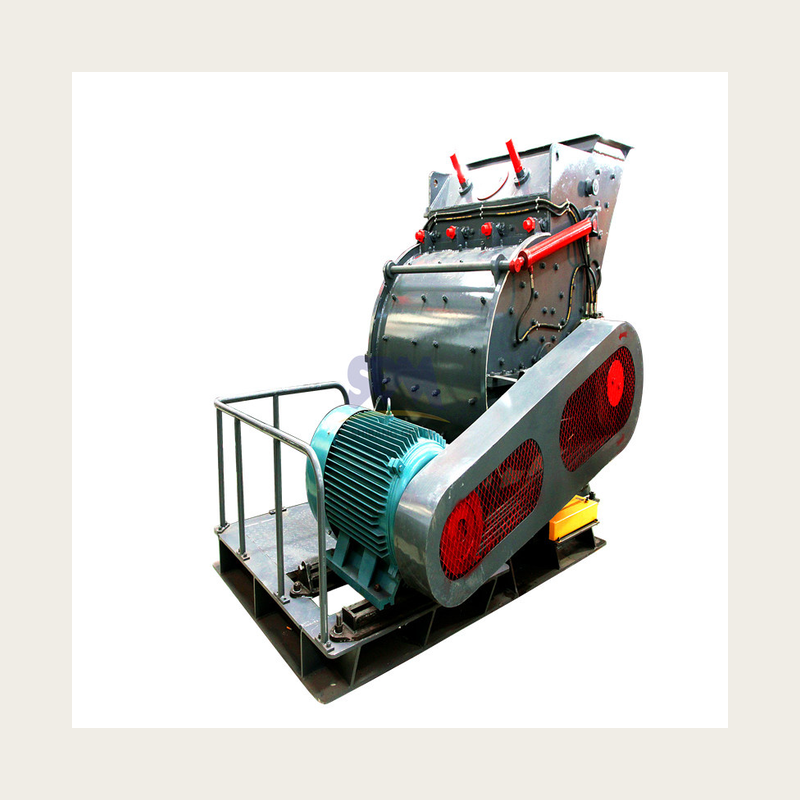
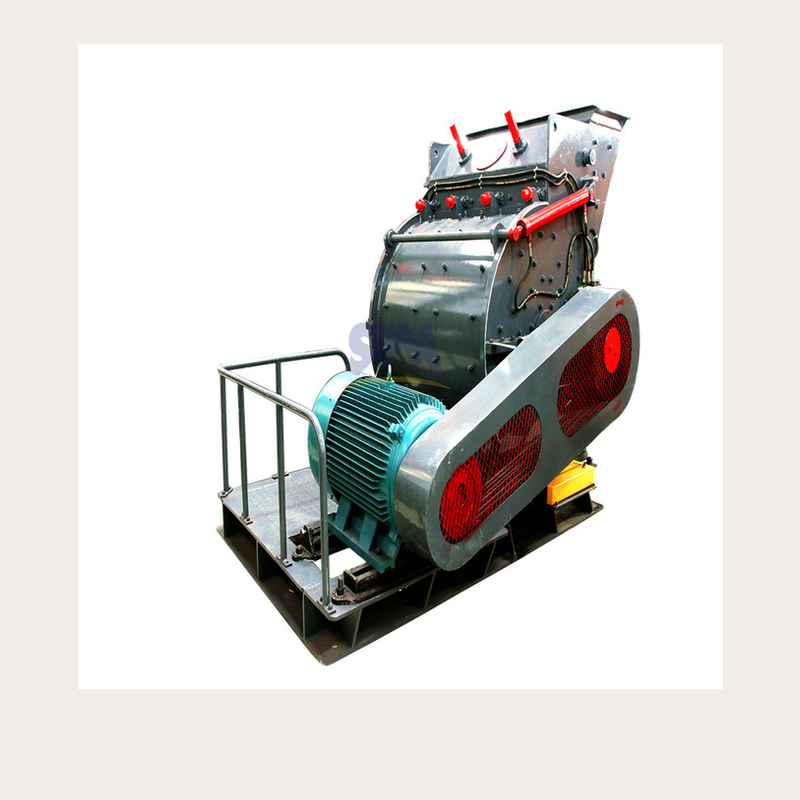
fix: show whole machines in product images
- Switch product card and detail hero images to object-fit: contain so the entire machine is always visible (cover was cropping tall machines)
- Re-frame all 12 product images to uniform 90% fill, machine centered on warm off-white background with preserved aspect ratio
- Keep coal-crusher.png portrait hero as user-approved

Changed region(s): [[0.0625, 0.0938, 0.9375, 0.9375], [0.0938, 0.0312, 0.9062, 0.0938]]

diff --git a/src/styles/global.css b/src/styles/global.css
@@ -661,7 +661,7 @@ input, textarea, select { font: inherit; color: inherit; }
 .product-hero__img img {
   width: 100%;
   height: 100%;
-  object-fit: cover;
+  object-fit: contain;
 }
 
 .product-hero__breadcrumb {
